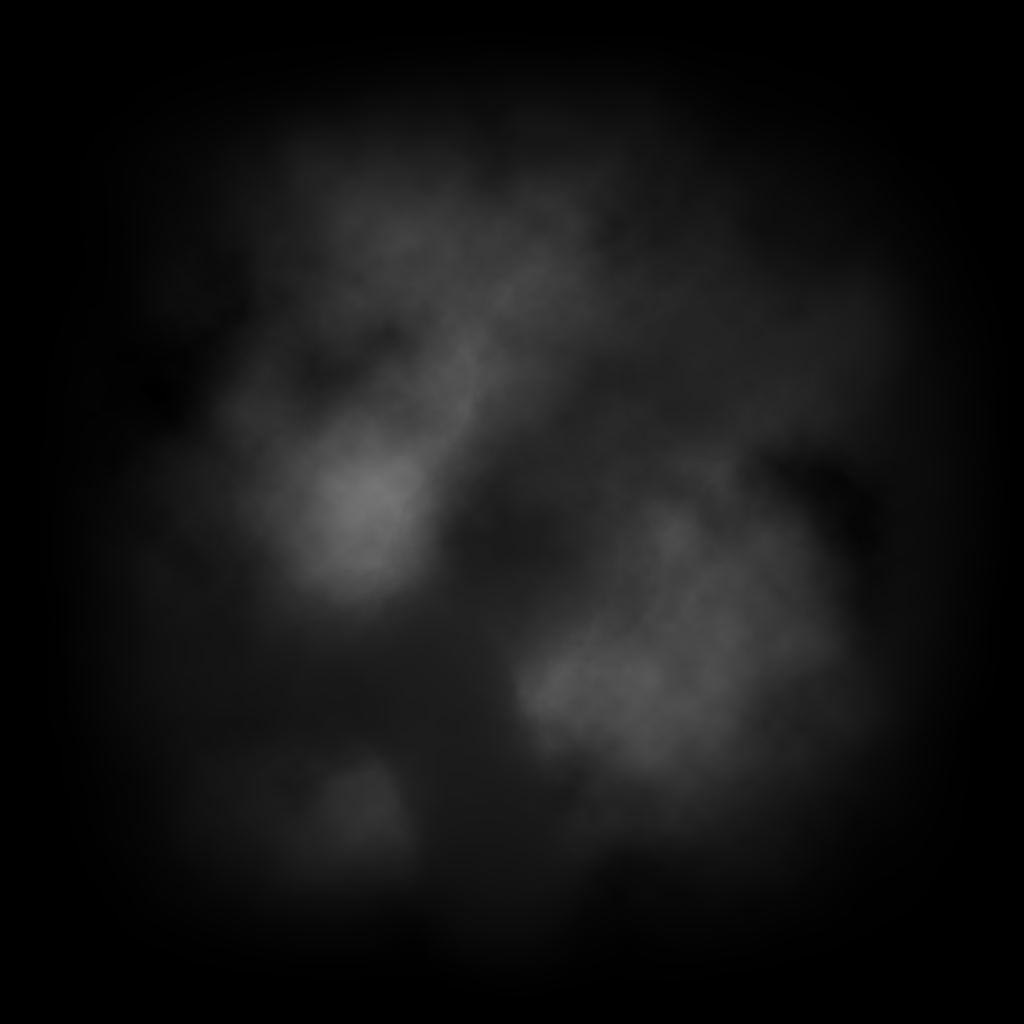
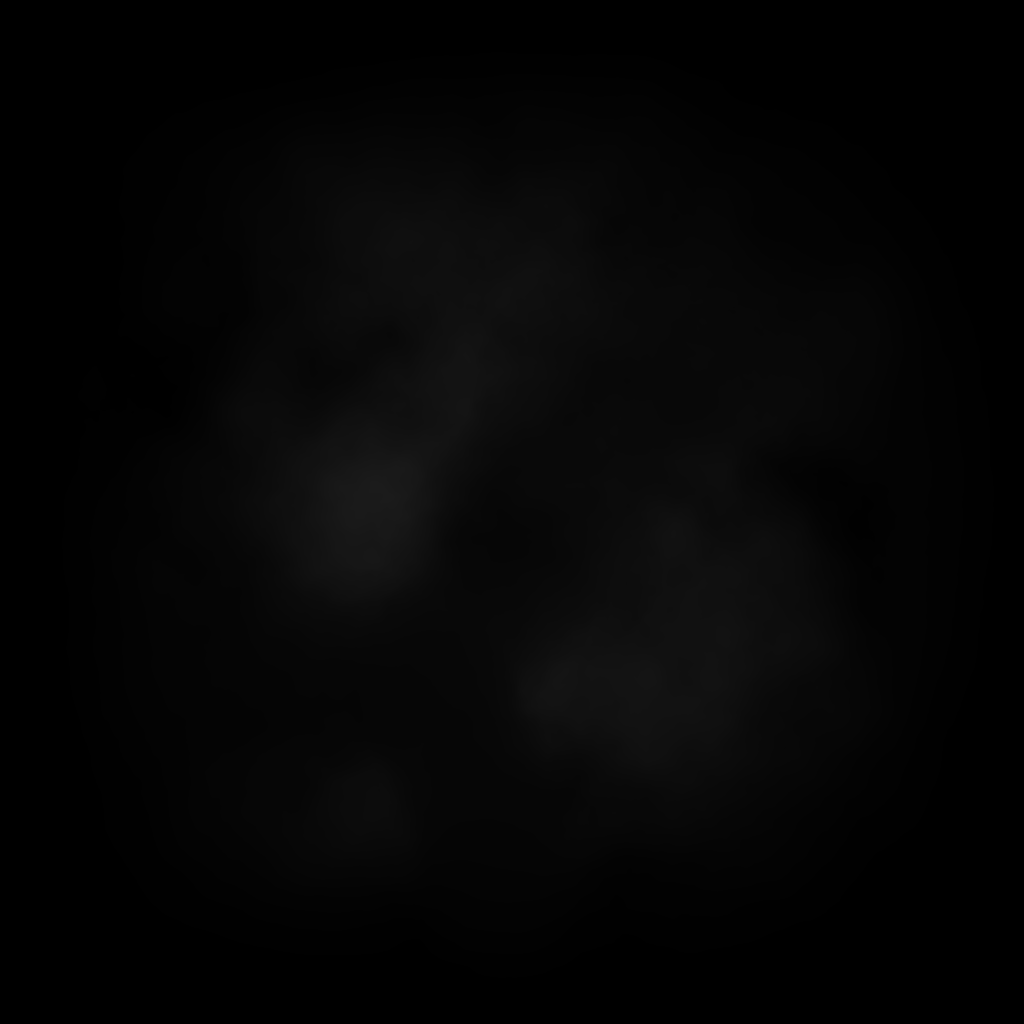
try

Changed region(s): [[0.1875, 0.1562, 0.8438, 0.8125], [0.2812, 0.7188, 0.4062, 0.8438]]

diff --git a/ECG_Solution/src/Terrain.cpp b/ECG_Solution/src/Terrain.cpp
@@ -2,18 +2,21 @@
 
 Terrain::Terrain(){}
 
-Terrain::Terrain(Shader* tessHeightMapShader, const char* texturePath, const char* heightmapPath) {
+void Terrain::createTerrain(const char* texturePath, const char* heightmapPath)
+{
+	cubeShader.createPhongShader("assets/textures/tiles_diffuse.dds", "assets/textures/tiles_specular.dds", true, glm::mat4(1.0f), 0.0f, 0.0f, 0.0f, 0);
+	cube.generateModel("assets/objects/cube2.obj");
 
-	shader = tessHeightMapShader;
-
-	shader->activate();
+	shader.createTerrainShader("", "");
+	shader.activate();
 	diffuseTexture.genTexture("assets/textures/brick.jpg");
 	specularTexture.genTexture("assets/textures/brick_specular.jpg");
 	heightmapTexture.genTexture(heightmapPath);
 
+	depthShader.createDepthMapShader();
+
 	height = heightmapTexture.height;
 	width = heightmapTexture.width;
-
 	std::cout << "terrainWidth: " << width << " terrainheight: " << height;
 
 	// set up vertex data (and buffer(s)) and configure vertex attributes
@@ -48,31 +51,9 @@ Terrain::Terrain(Shader* tessHeightMapShader, const char* texturePath, const cha
 			vertices.push_back((i + 1) / (float)rez); // u
 		}
 	}
-	//for (unsigned int i = 0; i < rez - 1; i++)
-	//{
-	//	for (unsigned int j = 0; j < rez - 1; j++)
-	//	{
-	//		unsigned int topLeft = i * rez + j;
-	//		unsigned int topRight = (i + 1) * rez + j;
-	//		unsigned int bottomLeft = i * rez + (j + 1);
-	//		unsigned int bottomRight = (i + 1) * rez + (j + 1);
 
-	//		// Triangle 1
-	//		indices.push_back(topLeft);
-	//		indices.push_back(bottomLeft);
-	//		indices.push_back(topRight);
-
-	//		// Triangle 2
-	//		indices.push_back(topRight);
-	//		indices.push_back(bottomLeft);
-	//		indices.push_back(bottomRight);
-
-	//		indexCount += 6;
-	//	}
-	//}
 	std::cout << "Loaded " << rez * rez << " patches of 4 control points each" << std::endl;
 	std::cout << "Processing " << rez * rez * 4 << " vertices in vertex shader" << std::endl;
-	//std::cout << "indexCount: " << indexCount << " size: " << indices.size() << std::endl;
 	
 	// first, configure the cube's VAO (and terrainVBO)
 	glGenVertexArrays(1, &terrainVAO);
@@ -89,32 +70,110 @@ Terrain::Terrain(Shader* tessHeightMapShader, const char* texturePath, const cha
 	glVertexAttribPointer(1, 2, GL_FLOAT, GL_FALSE, 5 * sizeof(float), (void*)(sizeof(float) * 3));
 	glEnableVertexAttribArray(1);
 
-	glPatchParameteri(GL_PATCH_VERTICES, NUM_PATCH_PTS);
+	glPatchParameteri(GL_PATCH_VERTICES, NUM_PATCH_PTS); //TODO
 
+
+	// configure depth map FBO
+	// -----------------------
+	glGenFramebuffers(1, &depthMapFBO);
+
+	// create depth texture
+	glGenTextures(1, &depthMap);
+	glBindTexture(GL_TEXTURE_2D, depthMap);
+	glTexImage2D(GL_TEXTURE_2D, 0, GL_DEPTH_COMPONENT, SHADOW_WIDTH, SHADOW_HEIGHT, 0, GL_DEPTH_COMPONENT, GL_FLOAT, NULL);
+	glTexParameteri(GL_TEXTURE_2D, GL_TEXTURE_MIN_FILTER, GL_NEAREST);
+	glTexParameteri(GL_TEXTURE_2D, GL_TEXTURE_MAG_FILTER, GL_NEAREST);
+	glTexParameteri(GL_TEXTURE_2D, GL_TEXTURE_WRAP_S, GL_CLAMP_TO_BORDER);
+	glTexParameteri(GL_TEXTURE_2D, GL_TEXTURE_WRAP_T, GL_CLAMP_TO_BORDER);
+	float borderColor[] = { 1.0f, 1.0f, 1.0f, 1.0f };
+	glTexParameterfv(GL_TEXTURE_2D, GL_TEXTURE_BORDER_COLOR, borderColor);
+
+	// attach depth texture as FBO's depth buffer
+	glBindFramebuffer(GL_FRAMEBUFFER, depthMapFBO);
+	glFramebufferTexture2D(GL_FRAMEBUFFER, GL_DEPTH_ATTACHMENT, GL_TEXTURE_2D, depthMap, 0);
+	glDrawBuffer(GL_NONE);
+	glReadBuffer(GL_NONE);
+	glBindFramebuffer(GL_FRAMEBUFFER, 0);
 
 
 
 
 }
 
-void Terrain::render() {
+void Terrain::render(glm::mat4 viewMatrix, glm::vec3 eyePos)
+{
+	glm::mat4 cubeModelMatrix = glm::translate(glm::mat4(1.0f), glm::vec3(-1.0f, 15.0f, 2.0f));
 
-	shader->activate();
+	//test += 0.2;
+	//std::cout << test << std::endl;
+
+	glm::vec4 lightColor = glm::vec4(1.0f, 1.0f, 1.0f, 1.0f); //nicht verwendet im shader
+	glm::vec3 lightPos = glm::vec3(-1.2f, 16.0f, 2.0f);
+	glm::mat4 orthgonalProjection = glm::ortho(-100.0f, 100.0f, -100.0f, 100.0f, 1.0f, 1077.5f);
+	glm::mat4 lightView = glm::lookAt(lightPos, glm::vec3(0.0f), glm::vec3(0.0f, 1.0f, 0.0f));
+	glm::mat4 lightSpaceMatrix = orthgonalProjection * lightView;
+
+	// 1. render depth of scene to texture (from light's perspective)
+	// --------------------------------------------------------------
+	glViewport(0, 0, SHADOW_WIDTH, SHADOW_HEIGHT);
+	glBindFramebuffer(GL_FRAMEBUFFER, depthMapFBO);
+
+	// Draw model/mesh with shadowMap shader
+	depthShader.setUniformMatrix4fv("lightSpaceMatrix", 1, GL_FALSE, lightSpaceMatrix);
+	depthShader.setUniformMatrix4fv("model", 1, GL_FALSE, glm::translate(glm::mat4(1.0f), glm::vec3(-1.0f, 10.0, 2.0f)));
+	cube.draw(&cubeShader);
+
+	depthShader.setUniformMatrix4fv("model", 1, GL_FALSE, glm::translate(glm::mat4(1.0f), glm::vec3(0.0, 0.0, 0.0)));
+	//draw terrain depth
+	glBindVertexArray(terrainVAO);
+	glDrawArrays(GL_PATCHES, 0, NUM_PATCH_PTS * rez * rez);
+
+
+	// Switch back to the default framebuffer
+	glBindFramebuffer(GL_FRAMEBUFFER, 0);
+
+	// reset viewport
+	glViewport(0, 0, 800, 800);
+	glClear(GL_COLOR_BUFFER_BIT | GL_DEPTH_BUFFER_BIT);
+
+
+	// 2. render scene as normal using the generated depth/shadow map  
+	// --------------------------------------------------------
+	
+	//CUBE
+	cubeShader.setUniformMatrix4fv("viewMatrix", 1, GL_FALSE, viewMatrix);
+	cubeShader.setUniformMatrix4fv("modelMatrix", 1, GL_FALSE, cubeModelMatrix);
+	cubeShader.setUniform3f("eyePos", eyePos.x, eyePos.y, eyePos.z);
+	cubeShader.setUniform3f("lightPos", lightPos.x, lightPos.y, lightPos.z);
+	cubeShader.setUniformMatrix4fv("lightSpaceMatrix", 1, GL_FALSE, lightSpaceMatrix);
+
+	glActiveTexture(GL_TEXTURE0 + 2);
+	glBindTexture(GL_TEXTURE_2D, depthMap);
+	cubeShader.setUniform1i("shadowMap", 2);
+
+	cube.draw(&cubeShader);
+
+
+
+	//TERRAIN
+	shader.setUniformMatrix4fv("view", 1, GL_FALSE, viewMatrix);
+	shader.setUniformMatrix4fv("model", 1, GL_FALSE, glm::mat4(1.0f));
+	shader.setUniform3f("eyePos", eyePos.x, eyePos.y, eyePos.z); //y + 10
+	shader.setUniform3f("lightPos", lightPos.x, lightPos.y, lightPos.z);
+	shader.setUniformMatrix4fv("lightSpaceMatrix", 1, GL_FALSE, lightSpaceMatrix);
 
 	heightmapTexture.bind(0);
-	shader->setUniform1i("heightMap", 0);
+	shader.setUniform1i("heightMap", 0);
 
 	diffuseTexture.bind(1);
-	shader->setUniform1i("diffuseTexture", 1);
+	shader.setUniform1i("diffuseTexture", 1);
 
 	specularTexture.bind(2);
-	shader->setUniform1i("specularTexture", 2);
+	shader.setUniform1i("specularTexture", 2);
 
-	//if (depthMap != -1) {
-	//	glActiveTexture(GL_TEXTURE0 + 2);
-	//	glBindTexture(GL_TEXTURE_2D, depthMap);
-	//	shader->setUniform1i("shadowMap", 2);
-	//}
+	glActiveTexture(GL_TEXTURE0 + 3);
+	glBindTexture(GL_TEXTURE_2D, depthMap);
+	shader.setUniform1i("shadowMap", 3);
 
 	glBindVertexArray(terrainVAO);
 	glDrawArrays(GL_PATCHES, 0, NUM_PATCH_PTS * rez * rez);

diff --git a/ECG_Solution/src/Objects.cpp b/ECG_Solution/src/Objects.cpp
@@ -45,19 +45,26 @@ Objects::Objects(GLFWwindow* window, Camera* camera, PhysxScene* physxScene)
 
 void Objects::createTerrain()
 {
-
-	terrainShader.createTerrainShader("","");
-
-	const char* heightmap_path = "assets/heightmaps/hm4_dark.png";
-	terrain = Terrain(&terrainShader, "assets/textures/sand.png", heightmap_path);
+	const char* heightmap_path = "assets/heightmaps/hm3-dark.png";
+	terrain.createTerrain("assets/textures/sand.png", heightmap_path);
 
 	physxScene->createTerrain(heightmap_path);
+}
 
+void Objects::createPointLightCube()
+{
+	Transform t;
+	t.translate(glm::vec3(0.0f, 30.0, -7.0));
+	t.scale(glm::vec3(0.1, 0.1, 0.1));
+	pointLightCube.generateModel("assets/objects/cube.obj");
+
+	lightCubeShader.createPhongShader("assets/textures/weiss.dds", "assets/textures/weiss.dds", true, t.getMatrix(), 1, 1, 1, 1);
+	lightCubeShader.setUniform1i("isAnimated", 0);
 }
 
 void Objects::createMummy(GLFWwindow* window)
 {
-	mummy.createCharacter(window, camera, controllerManager, physxScene->material, glm::vec3(0.0f, 30.0f, 0.0f));
+	mummy.createCharacter(window, camera, controllerManager, physxScene->material, glm::vec3(0.0f, 10.0f, 0.0f));
 	physxScene->setCharacter(&mummy);
 }
 
@@ -129,17 +136,6 @@ void Objects::createPyramid()
 	pyramidShader.setUniform1i("isAnimated", 0);
 
 	physxScene->createModel("pyramid", pyramid.indices, pyramid.vertices, pyramid.normals, pyramidScale, pyramidTranslate, pyramidRotate);
-}
-
-void Objects::createPointLightCube()
-{
-	Transform t;
-	t.translate(glm::vec3(0.0f, 30.0, -7.0));
-	t.scale(glm::vec3(0.1, 0.1, 0.1));
-	pointLightCube.generateModel("assets/objects/cube.obj");
-
-	lightCubeShader.createPhongShader("assets/textures/weiss.dds", "assets/textures/weiss.dds",true, t.getMatrix(), 1, 1, 1, 1);
-	lightCubeShader.setUniform1i("isAnimated", 0);
 }
 
 
@@ -229,19 +225,8 @@ void Objects::render(GLFWwindow* window, float currentTime, float dt, bool norma
 	//
 	//terrain.render(&terrainShader, -1);
 
-	glm::vec4 lightColor = glm::vec4(1.0f, 1.0f, 1.0f, 1.0f); //nicht verwendet im shader
-	glm::vec3 lightPos = glm::vec3(-1.2f, 2.0f, 2.0f);
-	glm::mat4 orthgonalProjection = glm::ortho(-10.0f, 10.0f, -10.0f, 10.0f, 1.0f, 7.5f);
-	glm::mat4 lightView = glm::lookAt(lightPos, glm::vec3(0.0f), glm::vec3(0.0f, 1.0f, 0.0f));
-	glm::mat4 lightSpaceMatrix = orthgonalProjection * lightView;
-
 	// render the terrain
-	terrainShader.setUniformMatrix4fv("view", 1, GL_FALSE, viewMatrix);
-	terrainShader.setUniformMatrix4fv("model", 1, GL_FALSE, glm::mat4(1.0f));
-	terrainShader.setUniform3f("eyePos", camera->cameraPosition.x, camera->cameraPosition.y, camera->cameraPosition.z);
-	terrainShader.setUniform3f("lightPos", lightPos.x, lightPos.y, lightPos.z);
-	terrainShader.setUniformMatrix4fv("lightSpaceMatrix", 1, GL_FALSE, lightSpaceMatrix);
-	terrain.render();
+	terrain.render(viewMatrix, glm::vec3(camera->cameraPosition.x, camera->cameraPosition.y, camera->cameraPosition.z));
 
 
 	//// render cactus

diff --git a/ECG_Solution/src/Shader.cpp b/ECG_Solution/src/Shader.cpp
@@ -37,6 +37,33 @@ void Shader::createPhongShader(const std::string& diffuseTexture, const std::str
 		loadTexture(diffuseTexture.c_str(), 0);
 		loadTexture(specularTexture.c_str(), 1);
 	}
+	setUniform1f("ka", 0.0);
+	setUniform1f("kd", 0.3);
+	setUniform1f("ks", 0.3);
+	setUniform1i("alpha", 64);
+	setUniformMatrix4fv("modelMatrix", 1, GL_FALSE, modelMatrix);
+
+	//TODO: lights
+	//PointLight pointLight1({ 0, 50, 0 }, { 100, 100, 100 }, { 1.0f, 0.4f, 0.1f });
+	DirectionalLight directionalLight1({ -0.2f, -1.0f, -0.3f }, { 0.8f, 0.8f, 0.8f });
+	//addUniformPointLight("pointLight", pointLight1);
+	addUniformDirectionalLight("directionalLight", directionalLight1);
+}
+
+void Shader::createPhongShader(glm::mat4 modelMatrix, float ka, float kd, float ks, int alpha) {
+	shader = glCreateProgram();
+
+	GLuint vertexShader = compileShader(GL_VERTEX_SHADER, "assets/shaders/phong.vsh");
+	GLuint fragmentShader = compileShader(GL_FRAGMENT_SHADER, "assets/shaders/phong.fs");
+
+	glAttachShader(shader, vertexShader);
+	glAttachShader(shader, fragmentShader);
+	glLinkProgram(shader);
+	glValidateProgram(shader);
+
+	glDeleteShader(vertexShader);
+	glDeleteShader(fragmentShader);
+
 	setUniform1f("ka", 0.3);
 	setUniform1f("kd", 0.3);
 	setUniform1f("ks", 0.3);
@@ -111,33 +138,6 @@ void Shader::createDebugShadowShader()
 
 }
 
-
-void Shader::createPhongShader(glm::mat4 modelMatrix, float ka, float kd, float ks, int alpha) {
-	shader = glCreateProgram();
-
-	GLuint vertexShader = compileShader(GL_VERTEX_SHADER, "assets/shaders/phong.vsh");
-	GLuint fragmentShader = compileShader(GL_FRAGMENT_SHADER, "assets/shaders/phong.fs");
-
-	glAttachShader(shader, vertexShader);
-	glAttachShader(shader, fragmentShader);
-	glLinkProgram(shader);
-	glValidateProgram(shader);
-
-	glDeleteShader(vertexShader);
-	glDeleteShader(fragmentShader);
-
-	//setUniform1f("ka", 0.1);
-	//setUniform1f("kd", 0.7);
-	//setUniform1f("ks", 0.3);
-	//setUniform1i("alpha", 20);
-	//setUniformMatrix4fv("modelMatrix", 1, GL_FALSE, modelMatrix);
-
-	////TODO lights
-	////PointLight pointLight1({ 0, 50, 0 }, { 2, 2, 2}, {1.0f, 0.4f, 0.1f});
-	//DirectionalLight directionalLight1({ -0.2f, -1.0f, -0.3f }, { 1.0f, 1.0f, 1.0f });
-	////addUniformPointLight("pointLight", pointLight1);
-	//addUniformDirectionalLight("directionalLight", directionalLight1);
-}
 
 void Shader::createPhongVideoTexShader(const std::string& videoPath, glm::mat4 modelMatrix, float ka, float kd, float ks, int alpha) {
 	shader = glCreateProgram();
@@ -234,8 +234,8 @@ void Shader::createTerrainShader(const char* fragmentShaderPath, const char* tes
 	glDeleteShader(tessControlShader);
 	glDeleteShader(tessEvalShader);
 
-	setUniform1f("ka", 0.3);
-	setUniform1f("kd", 0.3);
+	setUniform1f("ka", 0.2);
+	setUniform1f("kd", 2.8);
 	setUniform1f("ks", 0.3);
 	setUniform1i("alpha", 64);
 

diff --git a/ECG_Solution/src/Terrain.h b/ECG_Solution/src/Terrain.h
@@ -6,13 +6,18 @@
 #include "Shader.h"
 #include "PxPhysicsAPI.h"
 #include "Texture.h"
+#include "Drawables/Model.h"
 
 class Terrain {
 
 private:
+	float test = -50.0f;
 	Texture heightmapTexture;
 	Texture specularTexture;
 	Texture diffuseTexture;
+
+	Texture diffCubeTex;
+	Texture specCubeTex;
 
 	unsigned int SHADOW_WIDTH = 2048;  //1024
 	unsigned int SHADOW_HEIGHT = 2048;
@@ -26,12 +31,15 @@ private:
 	unsigned int NUM_PATCH_PTS = 4;
 	unsigned rez = 20;
 	int width, height, nrChannels;
-	Shader* shader;
+	Shader shader;
+	Shader depthShader;
+	Shader cubeShader;
+	Model cube;
 
 public:
-	Terrain(Shader* tessHeightMapShader, const char* texturePath, const char* heightmapPath);
+	void createTerrain(const char* texturePath, const char* heightmapPath);
 	Terrain();
-	void render();
+	void render(glm::mat4 viewMatrix, glm::vec3 eyePos);
 	void deleteTerrain();
 	int verticesCount;
 	physx::PxVec3 physicsVertices[20*20*4];
